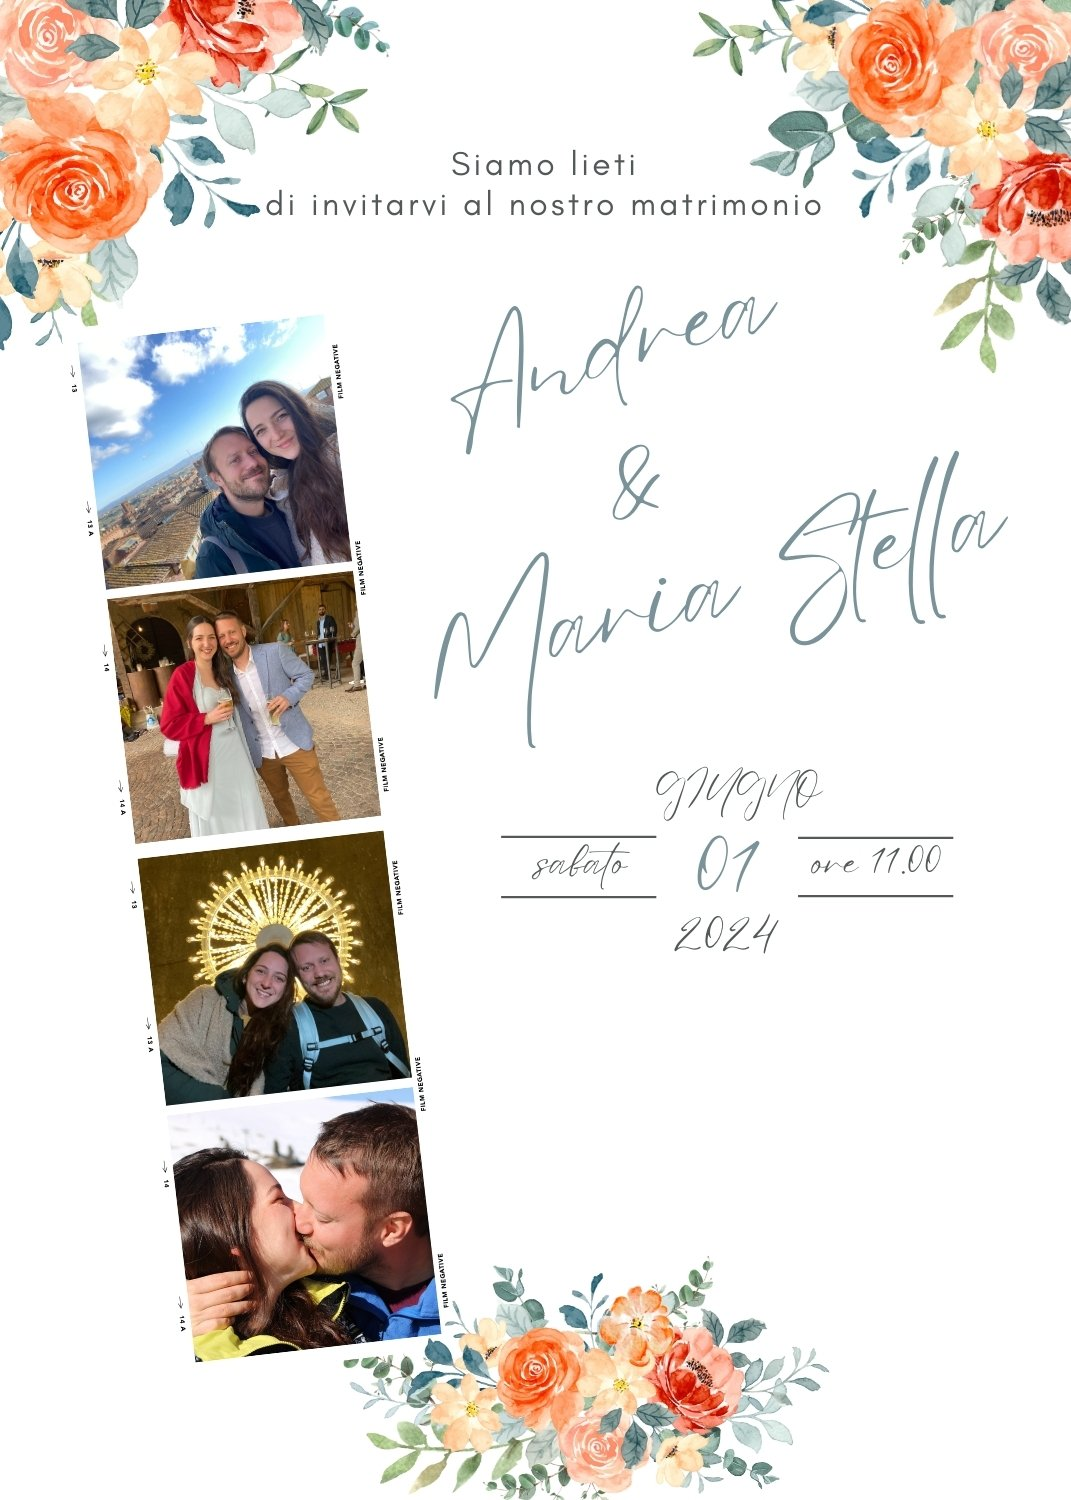
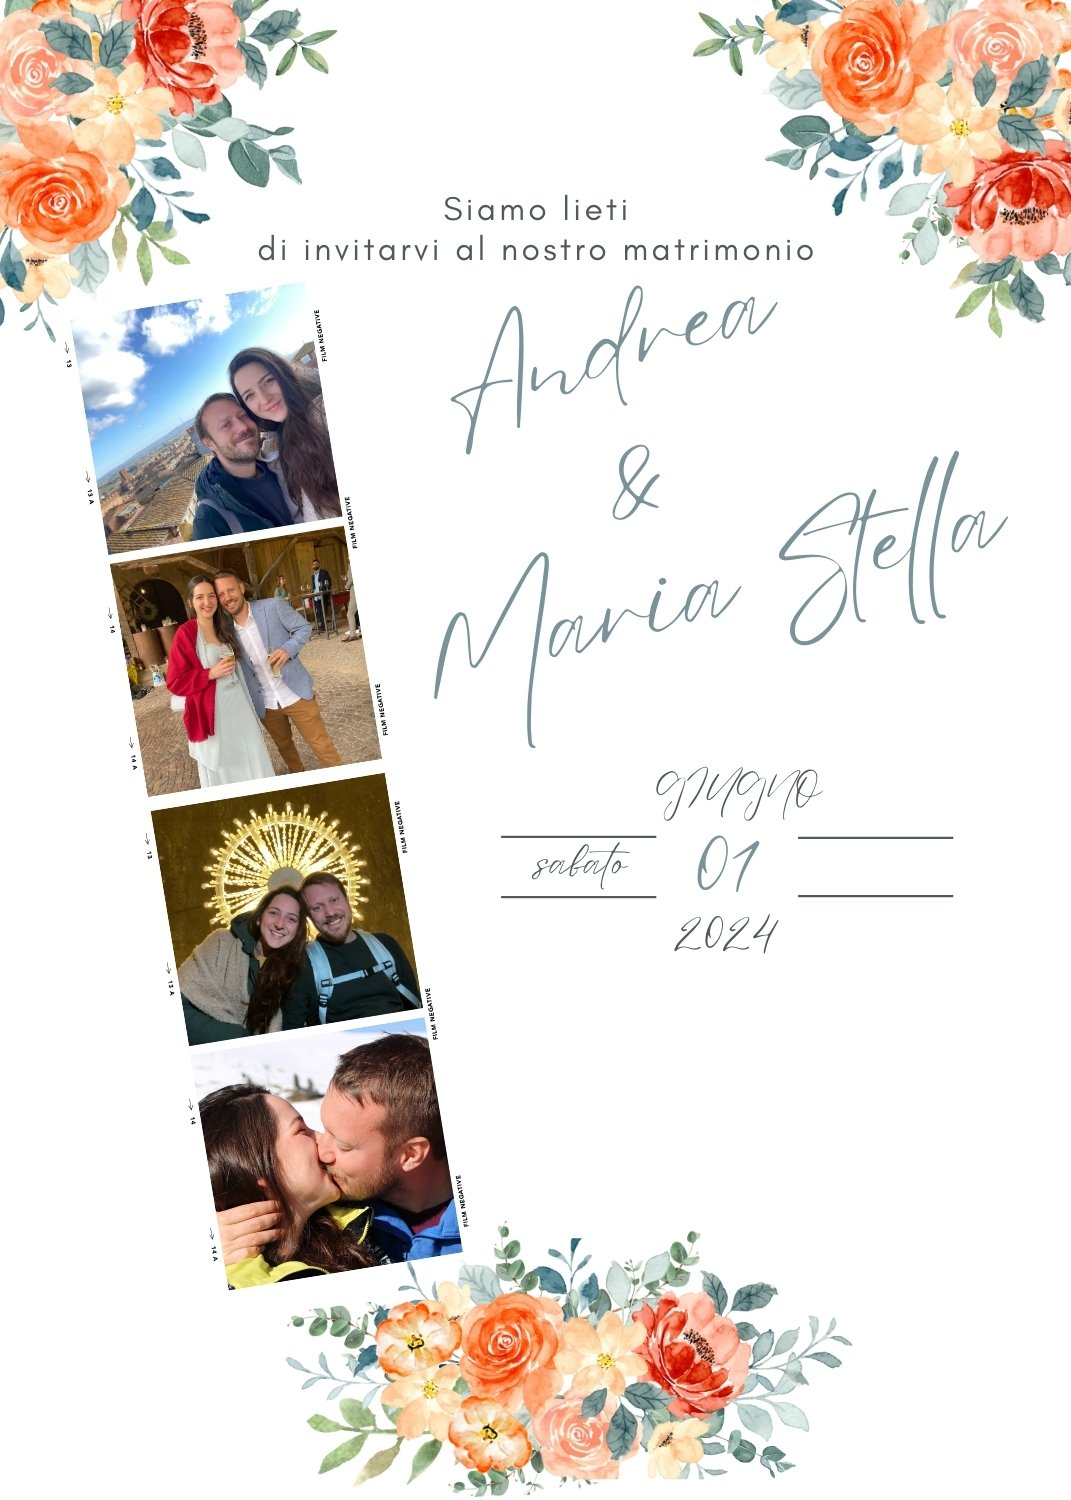
Second preview

Changed region(s): [[0.0, 0.0, 0.8011, 1.0], [0.3081, 0.0, 1.0, 0.2453], [0.8319, 0.552, 0.8627, 0.5827]]

diff --git a/src/vue/src/components/Hello.vue b/src/vue/src/components/Hello.vue
@@ -39,7 +39,7 @@ onMounted(async () => {
     <p
       v-if="evento"
       d="par2"
-      style="top: 75%; left: 52.5%"
+      style="top: 73%; left: 48.5%"
       class="ft11"
       :class="[loading ? 'blur' : 'noblur']"
       v-html="evento.descrizione_par2"
@@ -47,7 +47,7 @@ onMounted(async () => {
     <p
       v-if="evento"
       d="par3"
-      style="top: 79.5%; left: 58.5%"
+      style="top: 56.0%; left: 75.6%"
       class="ft13"
       :class="[loading ? 'blur' : 'noblur']"
       v-html="evento.descrizione_par3"
@@ -103,10 +103,10 @@ p {
   transition: filter 0.2s;
 }
 .ft13 {
-  font-size: 3.3vw;
+  font-size: 3.4vw;
   font-family: eyesome-script;
   color: #535959;
-  letter-spacing: 0.05em;
+  letter-spacing: 0.06em;
   transition: filter 0.2s;
 }
 .ft16 {
@@ -124,7 +124,7 @@ p {
     font-size: 33px;
   }
   .ft13 {
-    font-size: 34px;
+    font-size: 36px;
   }
   .ft16 {
     font-size: 34px;
